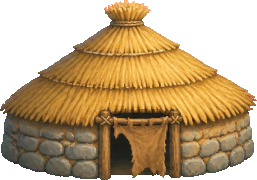
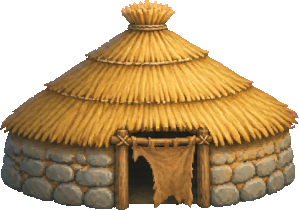
Cain and Abel: bigger house and altars

diff --git a/src/game/cain/CainWorld.ts b/src/game/cain/CainWorld.ts
@@ -187,7 +187,7 @@ export class CainWorld {
     const s = this.scene;
     const [hx, hy] = POINTS.hut;
     this.place('cain-hut', hx, hy);
-    this.solid(hx, hy - 18, 160, 40);
+    this.solid(hx, hy - 20, 190, 44);
     this.taken.push([hx, hy - 40]);
     // the log Adam sits on
     const [lx, ly] = POINTS.adamLog;
